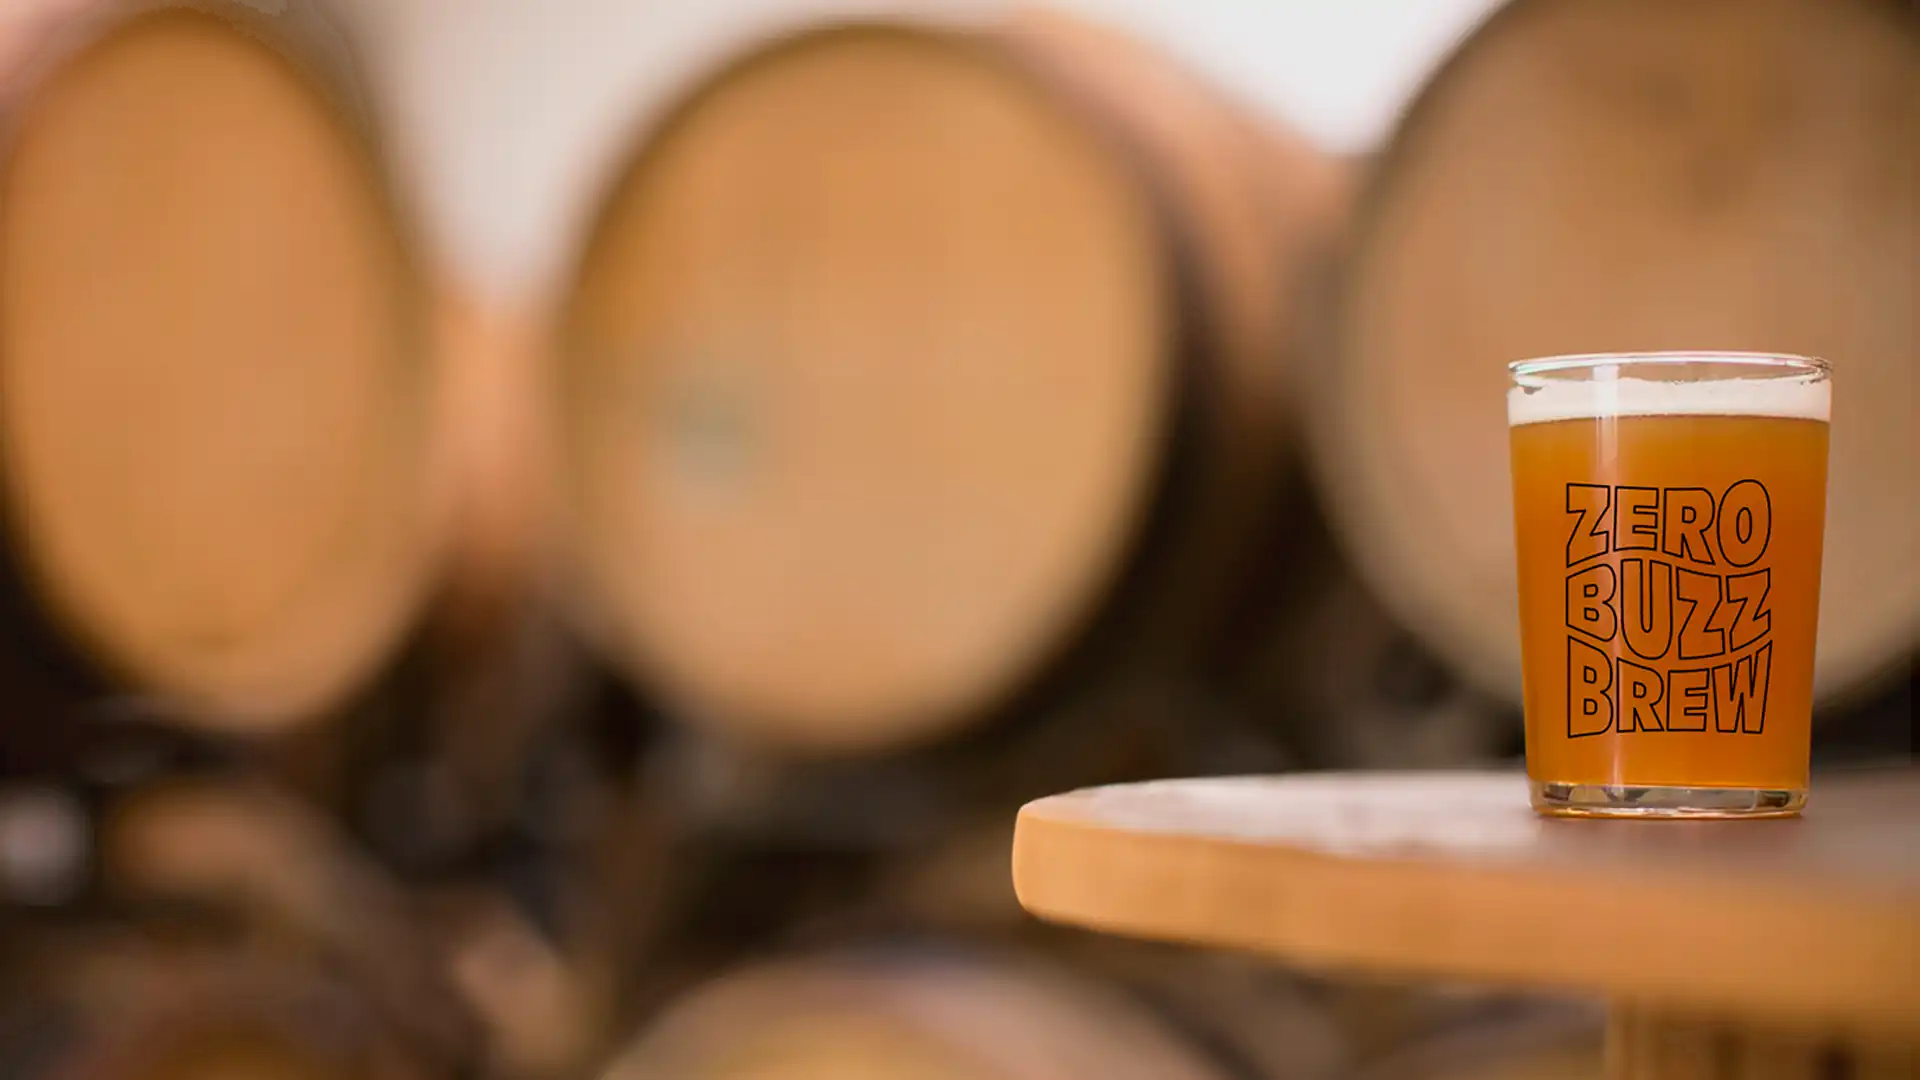
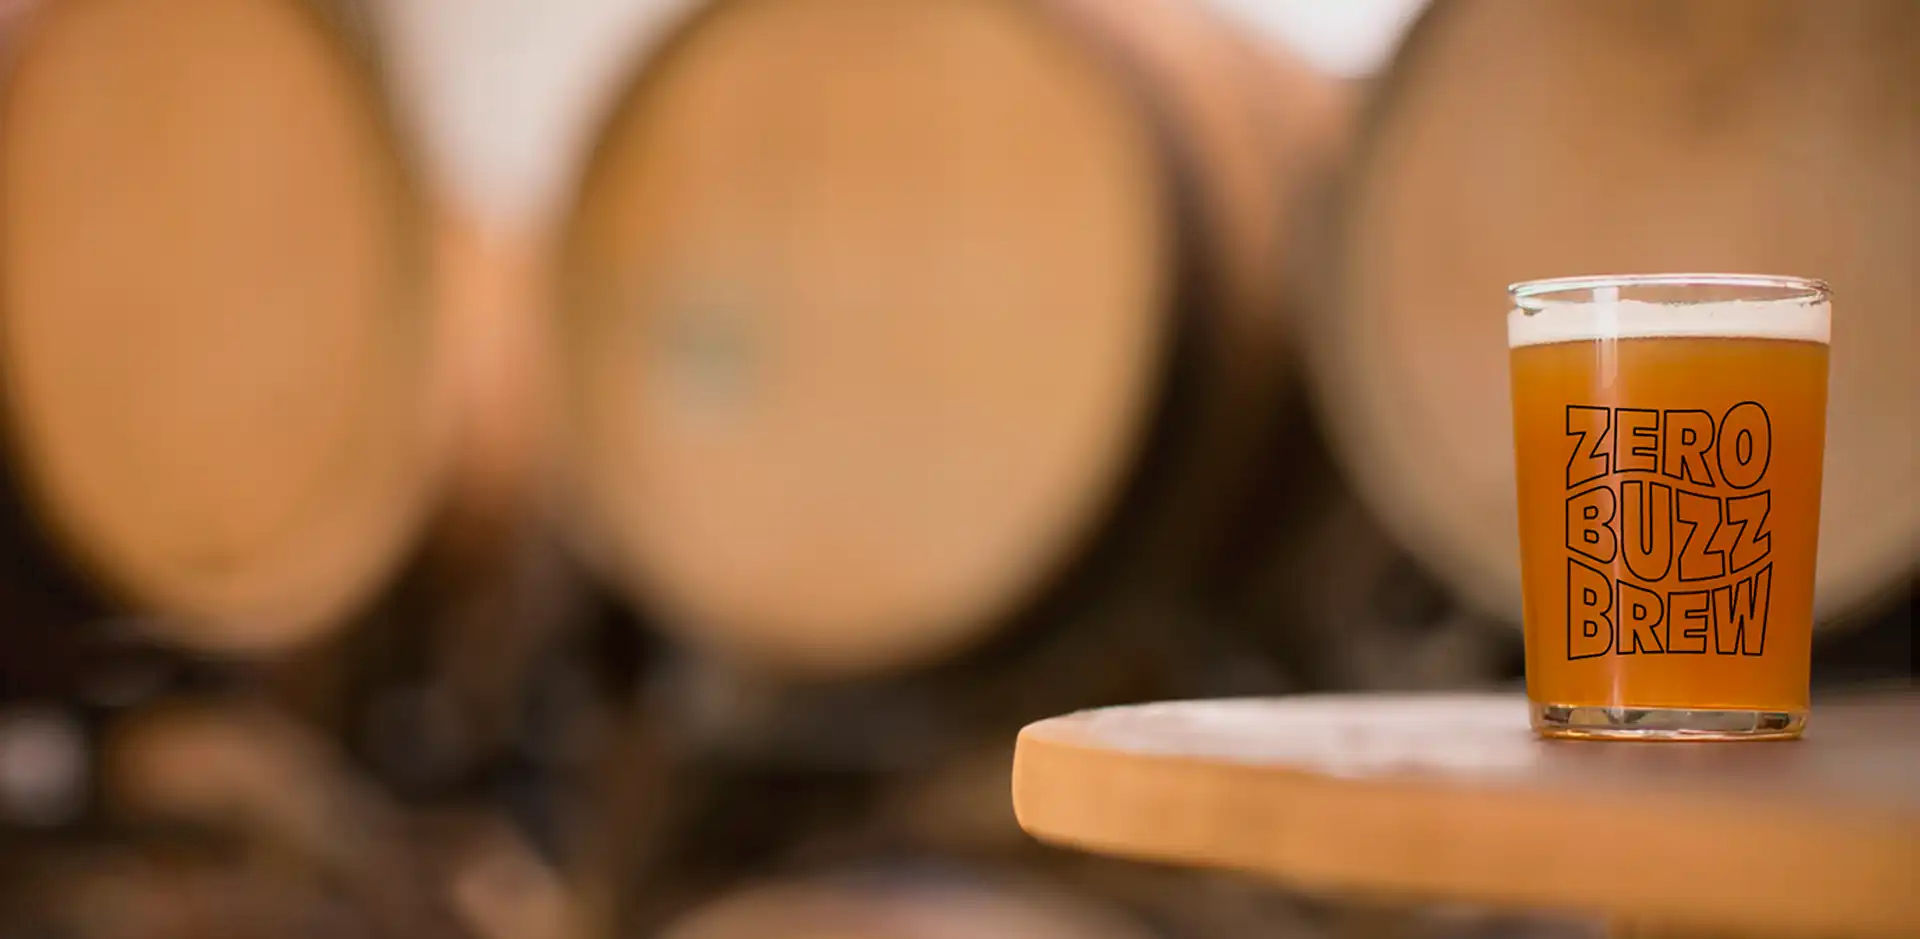
.

diff --git a/css/main.css b/css/main.css
@@ -48,14 +48,14 @@ a {
 /* Styling - overskrifter */
 h1 { 
     font-family: "Quattrocento", serif;
-    font-size: 50px;
+    font-size: 44px;
     font-weight: 600; /* tykkelse af font */
-    padding-bottom: 20px; /* angiver afstand til nedenforstående*/
+    padding-bottom: 25px; /* angiver afstand til nedenforstående*/
 }
 
 /* Styling - under-overskrifter */
 h2 {
-    font-size: 20px; 
+    font-size: 24px; 
     font-weight: 700; /* tykkelse af font */
     padding-bottom: 15px; /* angiver afstand til nedenforstående*/
 }
@@ -238,6 +238,7 @@ p {
 /* Styling - h1 */
 .h1-midt {
     padding-top: 70px; /* Afstand til ovneforstående elementer*/
+    font-size: 50px;
 }
 
 /* Styling - p */
@@ -246,7 +247,7 @@ p {
     padding-bottom: 40px;
     max-width: 800px; /* Bredden på tekststykke */
     text-align: center; /* Centrerer teksten */
-    font-size: 22px;
+    font-size: 20px;
 }
 
 /* Placering - h1 og p */
@@ -352,6 +353,7 @@ section.billedgalleri img {
 
 /*----------- BRYGGERIET - HTML -------------*/
 
+/* Placering - forside billede */
 .bryggeriet-forside {
     width: 100%; /* Sikrer at billedet bredde følger browserens*/
     display: block; 
@@ -359,20 +361,38 @@ section.billedgalleri img {
     position: relative; /* Sørger for, at z-index anvendes korrekt */
 }
 
+/* Styling - forside tekststykke*/
 .b-forside-tekst {
     text-align: center; /* Centrerer teksten */
     position: absolute ;
-    top: 58%; /* Placerer teksten 60% fra toppen */
+    top: 53.5%; /* Placering af teksten fra toppen - så det flugter med glasset*/
     left: 50%; /* Centrerer teksten - også responsivt */
     transform: translate(-50%, -50%); /* Centrerer teksten nøjagtigt midt på billedet - også responsivt*/
     background-color:rgba(148, 120, 86, 0); /* Gennemsigtig baggrundsfarve */
     color: var(--baggrundsfarve); /*Skriftfarve*/
-    max-width: 750px; /* Bredden på teskt "feltet"*/
+    max-width: 850px; /* Bredden på teskt "feltet"*/
     font-size: 60px; /*Skriftstørrelse*/
     font-weight: 800; /*Font-tykkelse*/
 }
 
+/* Placering - alle elementer i denne sektion */
+.midt-tekst-bryggeriet {
+    display: flex;
+}
 
+.billed-artikel-bryggeri {
+    flex: 1; /* Placerer billederne ved siden af tekst*/
+    padding: 70px 30px 50px 30px; /* Luft omkring billederne*/
+}
+
+.artikel-bryggeri {
+    padding: 50px; /*Luft omkring tekst*/
+}
+
+.artikel-bryggeri p {
+    line-height: 1.8; /*Linjeafstand*/
+    padding-bottom: 20px; /* Afstand mellem afsnit*/
+}
 
 
 /*-------------- FOOTER --------------------*/
@@ -527,5 +547,17 @@ section.billedgalleri img {
     .lobeklub-knap, .bryggeriets-historie-knap {
         font-size: 20px;
     }
+
+
+    /*---- BRYGGERIET - HTML ----*/
+
+    /*Ændring i skriftstørrelse*/
+    .b-forside-tekst {
+        max-width: 600px; /* Bredden på teskt "feltet"*/
+        font-size: 40px; /*Skriftstørrelse*/
+        font-weight: 600; /*Font-tykkelse*/
+        top: 40%; /* Placering af teksten fra toppen - så det flugter med glasset*/
+    }
+
 }
 

diff --git a/bryggeriet.html b/bryggeriet.html
@@ -70,11 +70,42 @@
 
         <main>
             <article> <!-- FORSIDE - TOP -->
+
                     <img class="bryggeriet-forside" src="images/3-bryggeriet-landingpage.webp" alt="Bryggeriet ZeroBuzz"> 
     
                     <h1 class="b-forside-tekst" >ET BRYGGERIEVENTYR UDEN ENDE</h1>
 
             </article>
+
+
+            <article class="midt-tekst-bryggeriet">
+                
+                <figure class="billed-artikel-bryggeri" >
+                <img src="images/3-bryggeriet-artikel.webp" alt="bryggeriets">
+                <img src="images/4-ol-events.webp" alt="øl i glas">
+                </figure>
+
+                <aside class="artikel-bryggeri" >
+                <h1>Sammenhold er vigtigere end alkohol</h1>
+
+                <p>I hjertet af det idylliske landskab nær Aarhus, Danmark, ligger "ZeroBuzz Brew" - en drøm, der blev til virkelighed gennem lidenskab, innovation og en dyb forpligtelse til at skabe kvalitetsøl med minimal miljøpåvirkning.</p>
+
+                <p>Historien om ZeroBuzz Brew begynder på en gård i udkanten af Aarhus, hvor den unge brygmester, Hella Johansen, vendte tilbage til sin barndomsrødder med en vision om at revolutionere ølverdenen. Med en baggrund i bæredygtighed og en stærk kærlighed til håndværket begyndte Hella at udforske mulighederne for at skabe økologisk øl, der kunne nydes med god samvittighed.</p>
+
+                <p>Efter mange måneders forberedelse og eksperimentering åbnede Hella og hans hold dørene til ZeroBuzz Brew. Placeret på Brygmarksvej 154, omgivet af frodige marker og grønne skove, blev bryggeriet hurtigt kendt for sine unikke ølsorter, der kombinerede traditionelle brygmetoder med bæredygtige ingredienser.</p>
+
+                <p>ZeroBuzz Brew blev ikke kun et sted for ølentusiaster at nyde en kold en, det blev også et symbol på bæredygtighed og miljøbevidsthed i lokalsamfundet. Bryggeriet samarbejdede med lokale økologiske landmænd for at sikre friske, naturlige ingredienser og implementerede innovative metoder til at minimere affald og energiforbrug i produktionsprocessen.</p>
+
+                <p>Med tiden voksede rygtet om ZeroBuzz Brew, og deres øl blev eftertragtede ikke kun i Aarhus, men også rundt om i landet. De vandt priser for deres enestående smag og banebrydende tilgang til bæredygtig brygning.</p>
+
+                <p>Men for Hella og hendes team handlede succesen aldrig kun om økonomisk gevinst. Det handlede om at inspirere andre til at vælge alkoholfri øl - fremstå som dét bedste valg, for de fremtidige generationer, hver gang de løftede en ZeroBuzz-øl.</p>
+
+                <p>Således fortsætter ZeroBuzz Brew med at være en kilde til glæde, inspiration og forandring, en lille perle i det danske landskab, der minder os om, at stor smag kan gå hånd i hånd med et rent og sundt miljø.</p>
+                </aside>
+            </article>
+
+
+
 
         </main>
 
